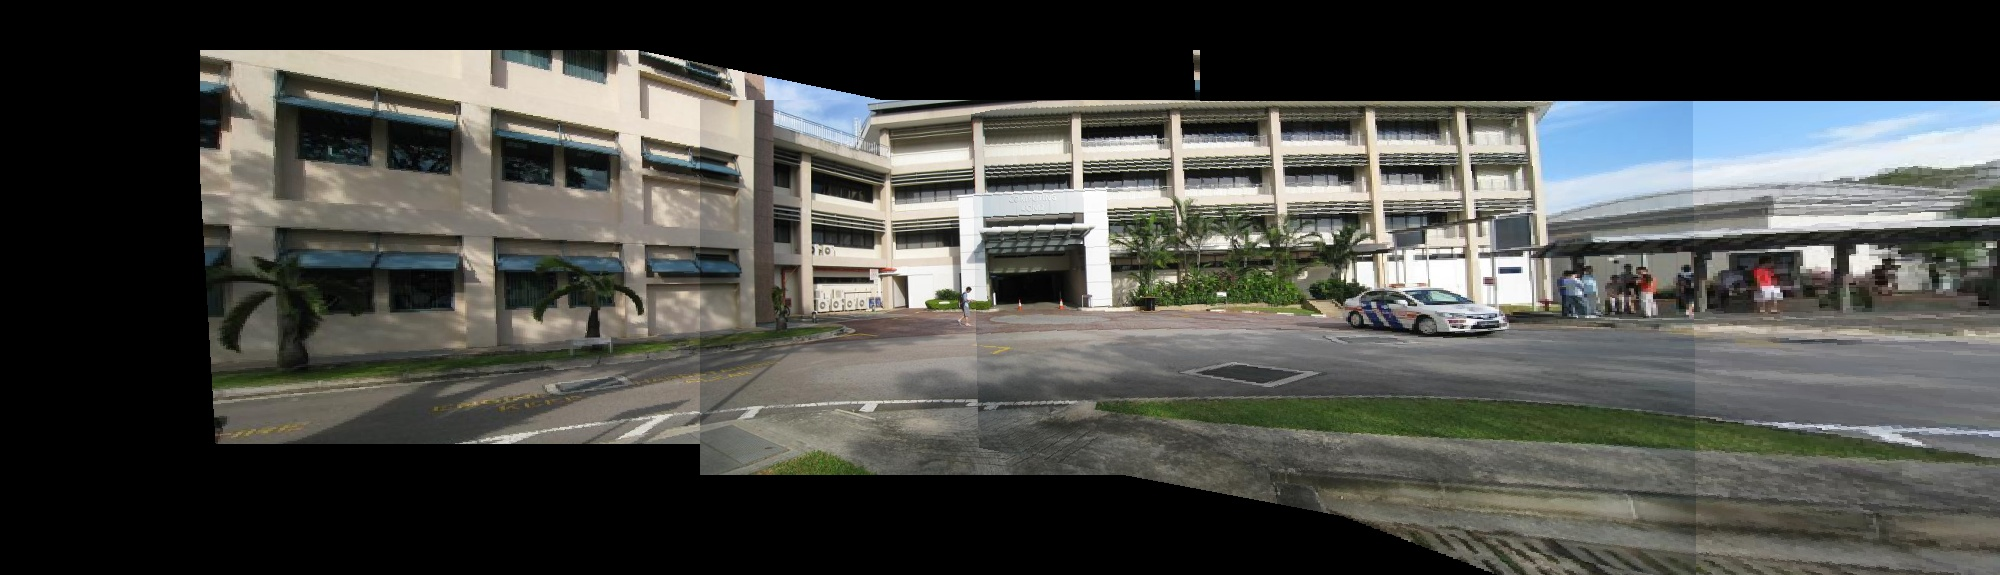
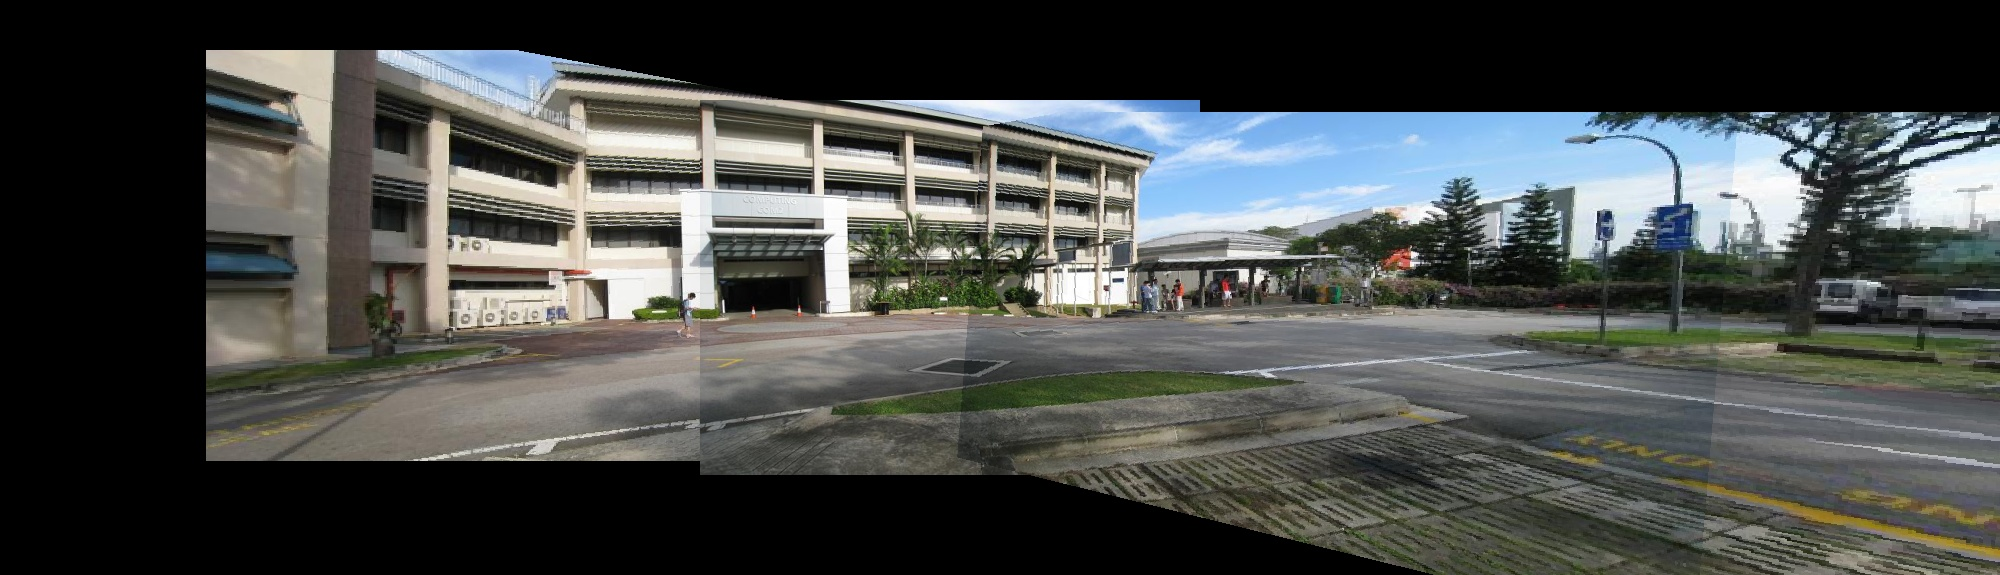
some more updates

diff --git a/stitch.py b/stitch.py
@@ -141,7 +141,7 @@ class panaroma_stitching():
         return vis
 
 # Datasets = ["I1","I2","I3","I4","I5","I6"]
-Datasets = ["I5"]
+Datasets = ["I3"]
 for Dataset in Datasets:
     print("Stitching Dataset : ", Dataset)
     Path = "Dataset/"+Dataset
@@ -155,7 +155,7 @@ for Dataset in Datasets:
         images[i] = imutils.resize(images[i], width=500)
 
     # print(images[1].shape)
-    images = images[:4]
+    images = images[1:5]
     stitcher = panaroma_stitching()
     result, left, right = stitcher.MultiStitch(images)
     # result = result[100:-100][:]
